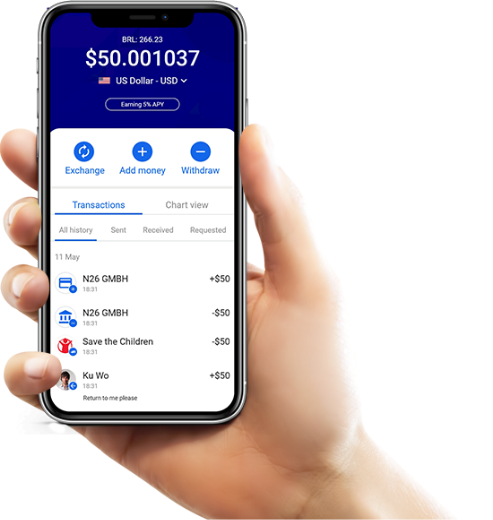
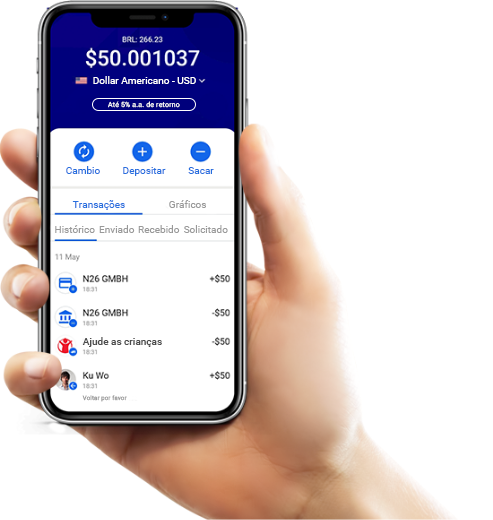
brazilian images finalized

diff --git a/packages/mars-theme/src/components/PersonalCompaign/PersonalCompaign.js b/packages/mars-theme/src/components/PersonalCompaign/PersonalCompaign.js
@@ -1,4 +1,4 @@
-import React, { useEffect, useState } from "react";
+import React, { useEffect, useState, useRef } from "react";
 import Check from "../../assets/check-mark2.png";
 import { parse as parseQs } from "qs";
 import depositUSD from "../../assets/depositUSD.svg";
@@ -37,6 +37,7 @@ const PersonalCompaign = ({ i18n }) => {
   const [utmMedium, setUtmMedium] = useState("");
   const [utmSource, setUtmSource] = useState("");
   const [utmTerm, setUtmTerm] = useState("");
+  const fullName = useRef(null);
   const toggle = () => {
     setSearchTerm("");
     setDropdownOpen((prevState) => !prevState);
@@ -124,6 +125,9 @@ const PersonalCompaign = ({ i18n }) => {
         });
     }
   };
+  const focus = () => {
+    fullName.current.focus();
+  }
   return (
     <>
       <Head>
@@ -166,7 +170,7 @@ const PersonalCompaign = ({ i18n }) => {
                 <p className="text-center">{i18n.t("Compaign_Launch_1")}<span className="br-block"></span>{i18n.t("Compaign_Launch_2")} USA.<span className="br-block"></span>{i18n.t("Compaign_Launch_3")}</p>
                 <div className="compaignFormCont">
                   <div className="form-group">
-                    <input type="text" className="form-control" autoFocus={true} value={name} onChange={e => setName(e.target.value)} placeholder={i18n.t("Enter_Name")} />
+                    <input ref={fullName} type="text" className="form-control" autoFocus={true} value={name} onChange={e => setName(e.target.value)} placeholder={i18n.t("Enter_Name")} />
                   </div>
                   <div className="form-group">
                     <input type="email" className="form-control" value={email} onChange={e => setEmail(e.target.value)} placeholder={i18n.t("Enter_Email")} />
@@ -283,13 +287,13 @@ const PersonalCompaign = ({ i18n }) => {
           </div>
         </div>
       </div>
-      <CompaignNoEffort />
+      <CompaignNoEffort focus={focus} />
       <div className="container">
-        <Savings />
+        <Savings focus={focus} />
       </div>
       {openSuccessModal && <CompaignThanksModal open={openSuccessModal} handleClose={thanksModalClose} lang="en" />}
       <CampaignTabs />
-      <CampaignSignup />
+      <CampaignSignup focus={focus} />
     </>
   );
 }

diff --git a/packages/mars-theme/src/components/MultiCurrency/MultiCurrency.js b/packages/mars-theme/src/components/MultiCurrency/MultiCurrency.js
@@ -1,8 +1,11 @@
 import React from "react";
 import Link from "../link";
 import Flags from "../../assets/Flags.svg";
+import FlagsBR from "../../assets/FlagsBR.svg";
 import usdflag from "../../assets/usdflag.png";
+import usdflagBR from "../../assets/usdflagBR.png";
 import gbpflag from "../../assets/gbpflag.png";
+import gbpflagBR from "../../assets/gbpflagBR.png";
 import eurflag from "../../assets/eurflag.png";
 import { Fade } from "react-awesome-reveal";
 import Arrow from "../../assets/arrowLink.svg";
@@ -35,7 +38,7 @@ const MultiCurrency = ({ i18n }) => {
 									<Fade triggerOnce direction="right" duration={2000} delay={100}>
 										<img
 											className="d-block"
-											src={usdflag}
+											src={i18n.language === "brazilian" ? usdflagBR : usdflag}
 											alt="american flag"
 										/>
 									</Fade>
@@ -44,7 +47,7 @@ const MultiCurrency = ({ i18n }) => {
 									<Fade triggerOnce direction="left" duration={2000} delay={300}>
 										<img
 											className="d-block"
-											src={gbpflag}
+											src={i18n.language === "brazilian" ? gbpflagBR : gbpflag}
 											alt="uk flag"
 										/>
 									</Fade>
@@ -63,7 +66,7 @@ const MultiCurrency = ({ i18n }) => {
 					</div>
 					<img
 						className="img-fluid mx-auto main-flags"
-						src={Flags}
+						src={i18n.language === "brazilian" ? FlagsBR : Flags}
 						alt="Flags"
 					/>
 				</div>

diff --git a/packages/mars-theme/src/components/compaignNoEffort/compaignNoEffort.js b/packages/mars-theme/src/components/compaignNoEffort/compaignNoEffort.js
@@ -12,7 +12,7 @@ import { Fade } from "react-awesome-reveal";
 import { animateScroll as scroll } from "react-scroll";
 import { withTranslation } from "react-i18next";
 
-const CompaignNoEffort = ({ i18n, lang }) => {
+const CompaignNoEffort = ({ i18n, lang, focus }) => {
 	return (
 		<div className="Coins sm-mb-30">
 			<div className="container">
@@ -28,7 +28,7 @@ const CompaignNoEffort = ({ i18n, lang }) => {
 								</h2>
 								<p className="HighInterestText">{i18n.t("CompaignNoEffort_P1")}</p>
 								<p className="HighInterestText">{i18n.t("CompaignNoEffort_P2")}</p>
-								<button onClick={() => scroll.scrollToTop()} className="LinkBtn compaignLink" >{i18n.t("Join_the_Waitlist")}<img alt="arrow" className="ArrowBtn" src={Arrow} /> </button>
+								<button onClick={() => { focus(); scroll.scrollToTop() }} className="LinkBtn compaignLink" >{i18n.t("Join_the_Waitlist")}<img alt="arrow" className="ArrowBtn" src={Arrow} /> </button>
 							</Fade>
 						</div>
 					</div>

diff --git a/packages/mars-theme/src/components/campaignSignup/campaignSignup.js b/packages/mars-theme/src/components/campaignSignup/campaignSignup.js
@@ -2,7 +2,7 @@ import React from "react";
 import { animateScroll as scroll } from "react-scroll";
 import { withTranslation } from "react-i18next";
 
-const campaignSignup = ({ i18n }) => {
+const campaignSignup = ({ i18n, focus }) => {
   return (
     <div className="SignUp compaign-signup">
       <div className="container">
@@ -12,7 +12,7 @@ const campaignSignup = ({ i18n }) => {
             <h3 className="SignUpText mb-0">
               {i18n.t("CampaignSignup_2")}<span className="br-block"></span>{i18n.t("CampaignSignup_3")}<span className="br-block"></span>{i18n.t("CampaignSignup_4")}
             </h3>
-            <button onClick={() => scroll.scrollToTop()} className="btn btn-default Compaignbtn Waitlistbtn">{i18n.t("Join_the_Waitlist")}</button>
+            <button onClick={() => { focus(); scroll.scrollToTop() }} className="btn btn-default Compaignbtn Waitlistbtn">{i18n.t("Join_the_Waitlist")}</button>
           </div>
         </div>
       </div>

diff --git a/packages/mars-theme/src/components/campaignSavings/campaignSavings.js b/packages/mars-theme/src/components/campaignSavings/campaignSavings.js
@@ -12,7 +12,7 @@ import Arrow from "../../assets/arrowLink.png";
 import { animateScroll as scroll } from "react-scroll";
 import { withTranslation } from "react-i18next";
 
-const campaignSavings = ({ i18n, lang }) => {
+const campaignSavings = ({ i18n, lang, focus }) => {
 	return (
 		<div className="MultiCurrency sm-mt-40 campaignSavings">
 			<div className="row">
@@ -26,7 +26,7 @@ const campaignSavings = ({ i18n, lang }) => {
 							<p>
 								{i18n.t("CampaignSavings_P")}
 							</p>
-							<button onClick={() => scroll.scrollToTop()} className="LinkBtn compaignLink" >{i18n.t("Join_the_Waitlist")}<img alt="arrow" className="ArrowBtn" src={Arrow} /> </button>
+							<button onClick={() => { focus(); scroll.scrollToTop() }} className="LinkBtn compaignLink" >{i18n.t("Join_the_Waitlist")}<img alt="arrow" className="ArrowBtn" src={Arrow} /> </button>
 						</Fade>
 					</div>
 				</div>

diff --git a/packages/mars-theme/src/components/Company/Company.js b/packages/mars-theme/src/components/Company/Company.js
@@ -3,6 +3,7 @@ import SignupSection from "../signupSection/signupSection";
 import Countup from "../Countup/Countup";
 import WhoSection from "../WhoSection/WhoSection";
 import CasheroImg from "../../assets/CasheroImg.png";
+import CasheroImgBR from "../../assets/CasheroImgBR.jpg";
 import YearsImg from "../../assets/YearsImg.png";
 import YearsImgBR from "../../assets/YearsImgBR.png";
 import { Head } from "frontity";
@@ -27,7 +28,7 @@ const Company = ({ i18n }) => {
               <img
                 className="img-fluid d-block CasheroImg w-100"
                 alt="Cashero Image"
-                src={CasheroImg}
+                src={i18n.language === "brazilian" ? CasheroImgBR : CasheroImg}
               />
             </div>
           </div>

diff --git a/packages/mars-theme/src/components/FindCharity/FindCharity.js b/packages/mars-theme/src/components/FindCharity/FindCharity.js
@@ -1,5 +1,6 @@
 import React, { useState } from "react";
 import Donations from "../../assets/Donations.png";
+import DonationsBR from "../../assets/DonationsBR.png";
 import Arrow from "../../assets/arrowLink.svg";
 import GetTheAppModal from "../GetTheAppModal/GetTheAppModal";
 import { withTranslation } from "react-i18next";
@@ -24,7 +25,7 @@ const FindCharity = ({ i18n }) => {
 						</div>
 					</div>
 					<div className="col-md-6">
-						<img alt="Donations" className="img-fluid sm-center mx-auto d-block" src={Donations} />
+						<img alt="Donations" className="img-fluid sm-center mx-auto d-block" src={i18n.language === "brazilian" ? DonationsBR : Donations} />
 					</div>
 				</div>
 			</div>

diff --git a/packages/mars-theme/src/components/Enhance/Enhance.js b/packages/mars-theme/src/components/Enhance/Enhance.js
@@ -1,5 +1,6 @@
 import React from "react";
 import Hand from "../../assets/handImg.png";
+import HandBR from "../../assets/handImgBR.png";
 import { Fade } from "react-awesome-reveal";
 import ArrowWhite from "../../assets/arrowLinkWhite.svg";
 import { withTranslation } from "react-i18next";
@@ -23,7 +24,7 @@ const Enhance = ({ i18n }) => {
 						</div>
 					</div>
 					<div className="col-md-5">
-						<img className="img-fluid PhoneHand" alt="Hand" src={Hand} />
+						<img className="img-fluid PhoneHand" alt="Hand" src={i18n.language === "brazilian" ? HandBR : Hand} />
 					</div>
 				</div>
 			</div>

diff --git a/packages/mars-theme/src/components/CharitySection/CharitySection.js b/packages/mars-theme/src/components/CharitySection/CharitySection.js
@@ -1,7 +1,7 @@
 import React from "react";
 import Link from "../link";
-import Charity from "../../assets/Charity.png";
-import CharityBR from "../../assets/CharityBR.png";
+import Charity from "../../assets/Charity.jpg";
+import CharityBR from "../../assets/CharityBR.jpg";
 import { Fade } from "react-awesome-reveal";
 import Arrow from "../../assets/arrowLink.svg";
 import { withTranslation } from "react-i18next";
